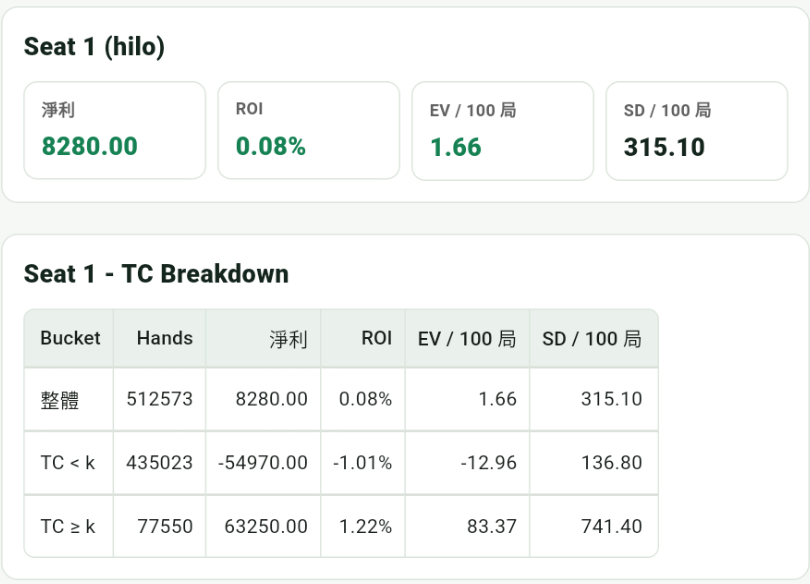
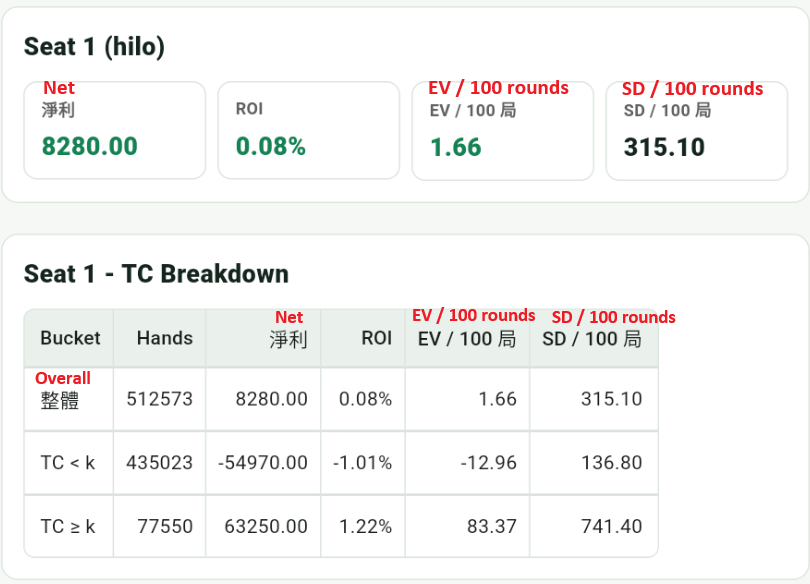
add all app contents

diff --git a/content/app/statistics.html b/content/app/statistics.html
@@ -2,13 +2,64 @@
 <html lang="zh-Hant">
 <head>
   <meta charset="utf-8">
-  <link rel="stylesheet" href="../content.css">
+  <link rel="stylesheet" href="../content.css?v=20260523-2">
 </head>
 <body>
   <article>
     <h2>統計</h2>
-    <p>介紹統計功能如何幫助使用者看出正確率、錯誤類型與練習進步。</p>
-    <div class="placeholder">之後可放統計畫面截圖</div>
+    <p class="lead">統計功能用大量模擬把 blackjack 的長期結果量化，讓使用者比較不同規則、策略、座位與 session 設定下的 EV、ROI、波動和風險。</p>
+
+    <h3 class="simulation-heading">Round Stats</h3>
+    <div class="app-screenshot-grid">
+      <figure class="app-screenshot-card">
+        <img src="../../assets/img/stats1.jpg" alt="Round Stats 可模擬最多 500000 局並依 TC threshold 分析結果">
+        <figcaption>Round Stats 可模擬最多 500000 局，並自行調整策略、規則與 Bet Ramp。TC threshold 可以用來拆分不同 TC 區間，觀察高牌區間與其他區間的表現差異。</figcaption>
+      </figure>
+
+      <figure class="app-screenshot-card">
+        <img src="../../assets/img/stats2.jpg" alt="Round Stats 設定可調整遊戲規則">
+        <figcaption>Settings 可調整桌面規則，概念和 Game 設定相同，用來建立要分析的遊戲條件。</figcaption>
+      </figure>
+
+      <figure class="app-screenshot-card">
+        <img src="../../assets/img/stats3.jpg" alt="Round Stats 可調整座位數並比較不同座位策略">
+        <figcaption>可調整座位數，並在同一組遊戲條件下比較不同座位或不同策略，例如不同 Bet Ramp 的長期表現。</figcaption>
+      </figure>
+
+      <figure class="app-screenshot-card">
+        <img src="../../assets/img/stats4.jpg" alt="Round Stats 顯示結果統計">
+        <figcaption>模擬完成後會顯示整體結果統計，方便快速比較各座位的淨利、ROI、EV / 100 局與 SD / 100 局。</figcaption>
+      </figure>
+
+      <figure class="app-screenshot-card">
+        <img src="../../assets/img/stats5.jpg" alt="Round Stats 顯示結果統計詳細內容">
+        <figcaption>詳細統計會進一步拆解結果，讓使用者檢查不同區間或不同條件下的表現差異。</figcaption>
+      </figure>
+    </div>
+
+    <h3 class="simulation-heading">Session Stats</h3>
+    <div class="app-screenshot-grid">
+      <figure class="app-screenshot-card">
+        <img src="../../assets/img/stats6.jpg" alt="Session Stats 可設定每場停損停利與最多局數並模擬多場結果">
+        <figcaption>Session Stats 用來觀察一場一場的結果。可以設定每場停損、停利與最多局數，再模擬多場 session，並搭配 Settings 調整規則與策略。</figcaption>
+      </figure>
+
+      <figure class="app-screenshot-card">
+        <img src="../../assets/img/stats7.jpg" alt="Session Stats 可調整場數、每場最多局數、停損與停利">
+        <figcaption>可調整 session 場數、每場最多玩幾局、停損和停利，用來測試不同資金管理設定下的結果分布。</figcaption>
+      </figure>
+
+      <figure class="app-screenshot-card">
+        <img src="../../assets/img/stats8.jpg" alt="Session Stats 顯示結果統計與每場虧損分布圖">
+        <figcaption>結果頁會顯示整體統計與每場盈虧分布圖，幫助理解同樣策略在多場 session 中可能出現的波動。</figcaption>
+      </figure>
+
+      <figure class="app-screenshot-card">
+        <img src="../../assets/img/stats9.jpg" alt="Session Stats 顯示每一場的簡單概要">
+        <figcaption>每一場 session 都會保留簡單概要，方便回頭查看單場結果與長期統計之間的差異。</figcaption>
+      </figure>
+    </div>
   </article>
 </body>
 </html>
+

diff --git a/assets/js/main.js b/assets/js/main.js
@@ -39,20 +39,20 @@ const tabButtons = [...document.querySelectorAll(".tab-button")];
 const languageSelect = document.querySelector("#languageSelect");
 
 const contentHeights = {
-  "content/cardcounting/rules.html": 2000,
-  "content/cardcounting/basic-strategy.html": 3000,
-  "content/cardcounting/hilo.html": 2400,
+  "content/cardcounting/rules.html": 1800,
+  "content/cardcounting/basic-strategy.html": 2800,
+  "content/cardcounting/hilo.html": 2200,
   "content/cardcounting/bet-ramp.html": 1800,
   "content/cardcounting/high-cards.html": 1700,
-  "content/cardcounting/deviations.html": 2600,
-  "content/cardcounting/ev-variance.html": 3200,
+  "content/cardcounting/deviations.html": 2400,
+  "content/cardcounting/ev-variance.html": 3000,
   "content/cardcounting/reality.html": 900,
   "content/cardcounting/hiopt.html": 1700,
-  "content/app/overview.html": 1600,
-  "content/app/game.html": 7200,
-  "content/app/training.html": 5600,
-  "content/app/statistics.html": 900,
-  "content/app/replay.html": 3200
+  "content/app/overview.html": 1200,
+  "content/app/game.html": 4200,
+  "content/app/training.html": 4200,
+  "content/app/statistics.html": 4200,
+  "content/app/replay.html": 2400
 };
 
 let activeSection = "cardcounting";
@@ -109,6 +109,14 @@ function watchContentFrameSize() {
   setTimeout(resizeContentFrame, 500);
   setTimeout(resizeContentFrame, 1000);
   setTimeout(resizeContentFrame, 2000);
+  let ticks = 0;
+  const interval = setInterval(() => {
+    resizeContentFrame();
+    ticks += 1;
+    if (ticks >= 16) {
+      clearInterval(interval);
+    }
+  }, 250);
 }
 
 function setActiveContent(sectionKey, itemIndex = 0, shouldUpdateHash = true) {

diff --git a/content/app/game.html b/content/app/game.html
@@ -2,7 +2,7 @@
 <html lang="zh-Hant">
 <head>
   <meta charset="utf-8">
-  <link rel="stylesheet" href="../content.css">
+  <link rel="stylesheet" href="../content.css?v=20260523-2">
 </head>
 <body>
   <article>
@@ -62,3 +62,4 @@
   </article>
 </body>
 </html>
+

diff --git a/content/app/overview.html b/content/app/overview.html
@@ -2,7 +2,7 @@
 <html lang="zh-Hant">
 <head>
   <meta charset="utf-8">
-  <link rel="stylesheet" href="../content.css">
+  <link rel="stylesheet" href="../content.css?v=20260523-2">
 </head>
 <body>
   <article>
@@ -49,3 +49,4 @@
   </article>
 </body>
 </html>
+

diff --git a/content/app/replay.html b/content/app/replay.html
@@ -2,7 +2,7 @@
 <html lang="zh-Hant">
 <head>
   <meta charset="utf-8">
-  <link rel="stylesheet" href="../content.css">
+  <link rel="stylesheet" href="../content.css?v=20260523-2">
 </head>
 <body>
   <article>
@@ -37,3 +37,4 @@
   </article>
 </body>
 </html>
+

diff --git a/content/app/training.html b/content/app/training.html
@@ -2,7 +2,7 @@
 <html lang="zh-Hant">
 <head>
   <meta charset="utf-8">
-  <link rel="stylesheet" href="../content.css">
+  <link rel="stylesheet" href="../content.css?v=20260523-2">
 </head>
 <body>
   <article>
@@ -71,3 +71,4 @@
   </article>
 </body>
 </html>
+

diff --git a/content/cardcounting/basic-strategy.html b/content/cardcounting/basic-strategy.html
@@ -2,7 +2,7 @@
 <html lang="zh-Hant">
 <head>
   <meta charset="utf-8">
-  <link rel="stylesheet" href="../content.css">
+  <link rel="stylesheet" href="../content.css?v=20260523-2">
 </head>
 <body>
   <article>
@@ -74,3 +74,4 @@
   </article>
 </body>
 </html>
+

diff --git a/content/cardcounting/bet-ramp.html b/content/cardcounting/bet-ramp.html
@@ -2,7 +2,7 @@
 <html lang="zh-Hant">
 <head>
   <meta charset="utf-8">
-  <link rel="stylesheet" href="../content.css">
+  <link rel="stylesheet" href="../content.css?v=20260523-2">
 </head>
 <body>
   <article>
@@ -46,3 +46,4 @@
   </article>
 </body>
 </html>
+

diff --git a/content/cardcounting/deviations.html b/content/cardcounting/deviations.html
@@ -2,7 +2,7 @@
 <html lang="zh-Hant">
 <head>
   <meta charset="utf-8">
-  <link rel="stylesheet" href="../content.css">
+  <link rel="stylesheet" href="../content.css?v=20260523-2">
 </head>
 <body>
   <article>
@@ -51,3 +51,4 @@
   </article>
 </body>
 </html>
+

diff --git a/content/cardcounting/ev-variance.html b/content/cardcounting/ev-variance.html
@@ -2,7 +2,7 @@
 <html lang="zh-Hant">
 <head>
   <meta charset="utf-8">
-  <link rel="stylesheet" href="../content.css">
+  <link rel="stylesheet" href="../content.css?v=20260523-2">
 </head>
 <body>
   <article>
@@ -55,3 +55,4 @@
   </article>
 </body>
 </html>
+

diff --git a/content/cardcounting/high-cards.html b/content/cardcounting/high-cards.html
@@ -2,7 +2,7 @@
 <html lang="zh-Hant">
 <head>
   <meta charset="utf-8">
-  <link rel="stylesheet" href="../content.css">
+  <link rel="stylesheet" href="../content.css?v=20260523-2">
 </head>
 <body>
   <article>
@@ -35,3 +35,4 @@
   </article>
 </body>
 </html>
+

diff --git a/content/cardcounting/hilo.html b/content/cardcounting/hilo.html
@@ -2,7 +2,7 @@
 <html lang="zh-Hant">
 <head>
   <meta charset="utf-8">
-  <link rel="stylesheet" href="../content.css">
+  <link rel="stylesheet" href="../content.css?v=20260523-2">
 </head>
 <body>
   <article>
@@ -53,3 +53,4 @@
   </article>
 </body>
 </html>
+